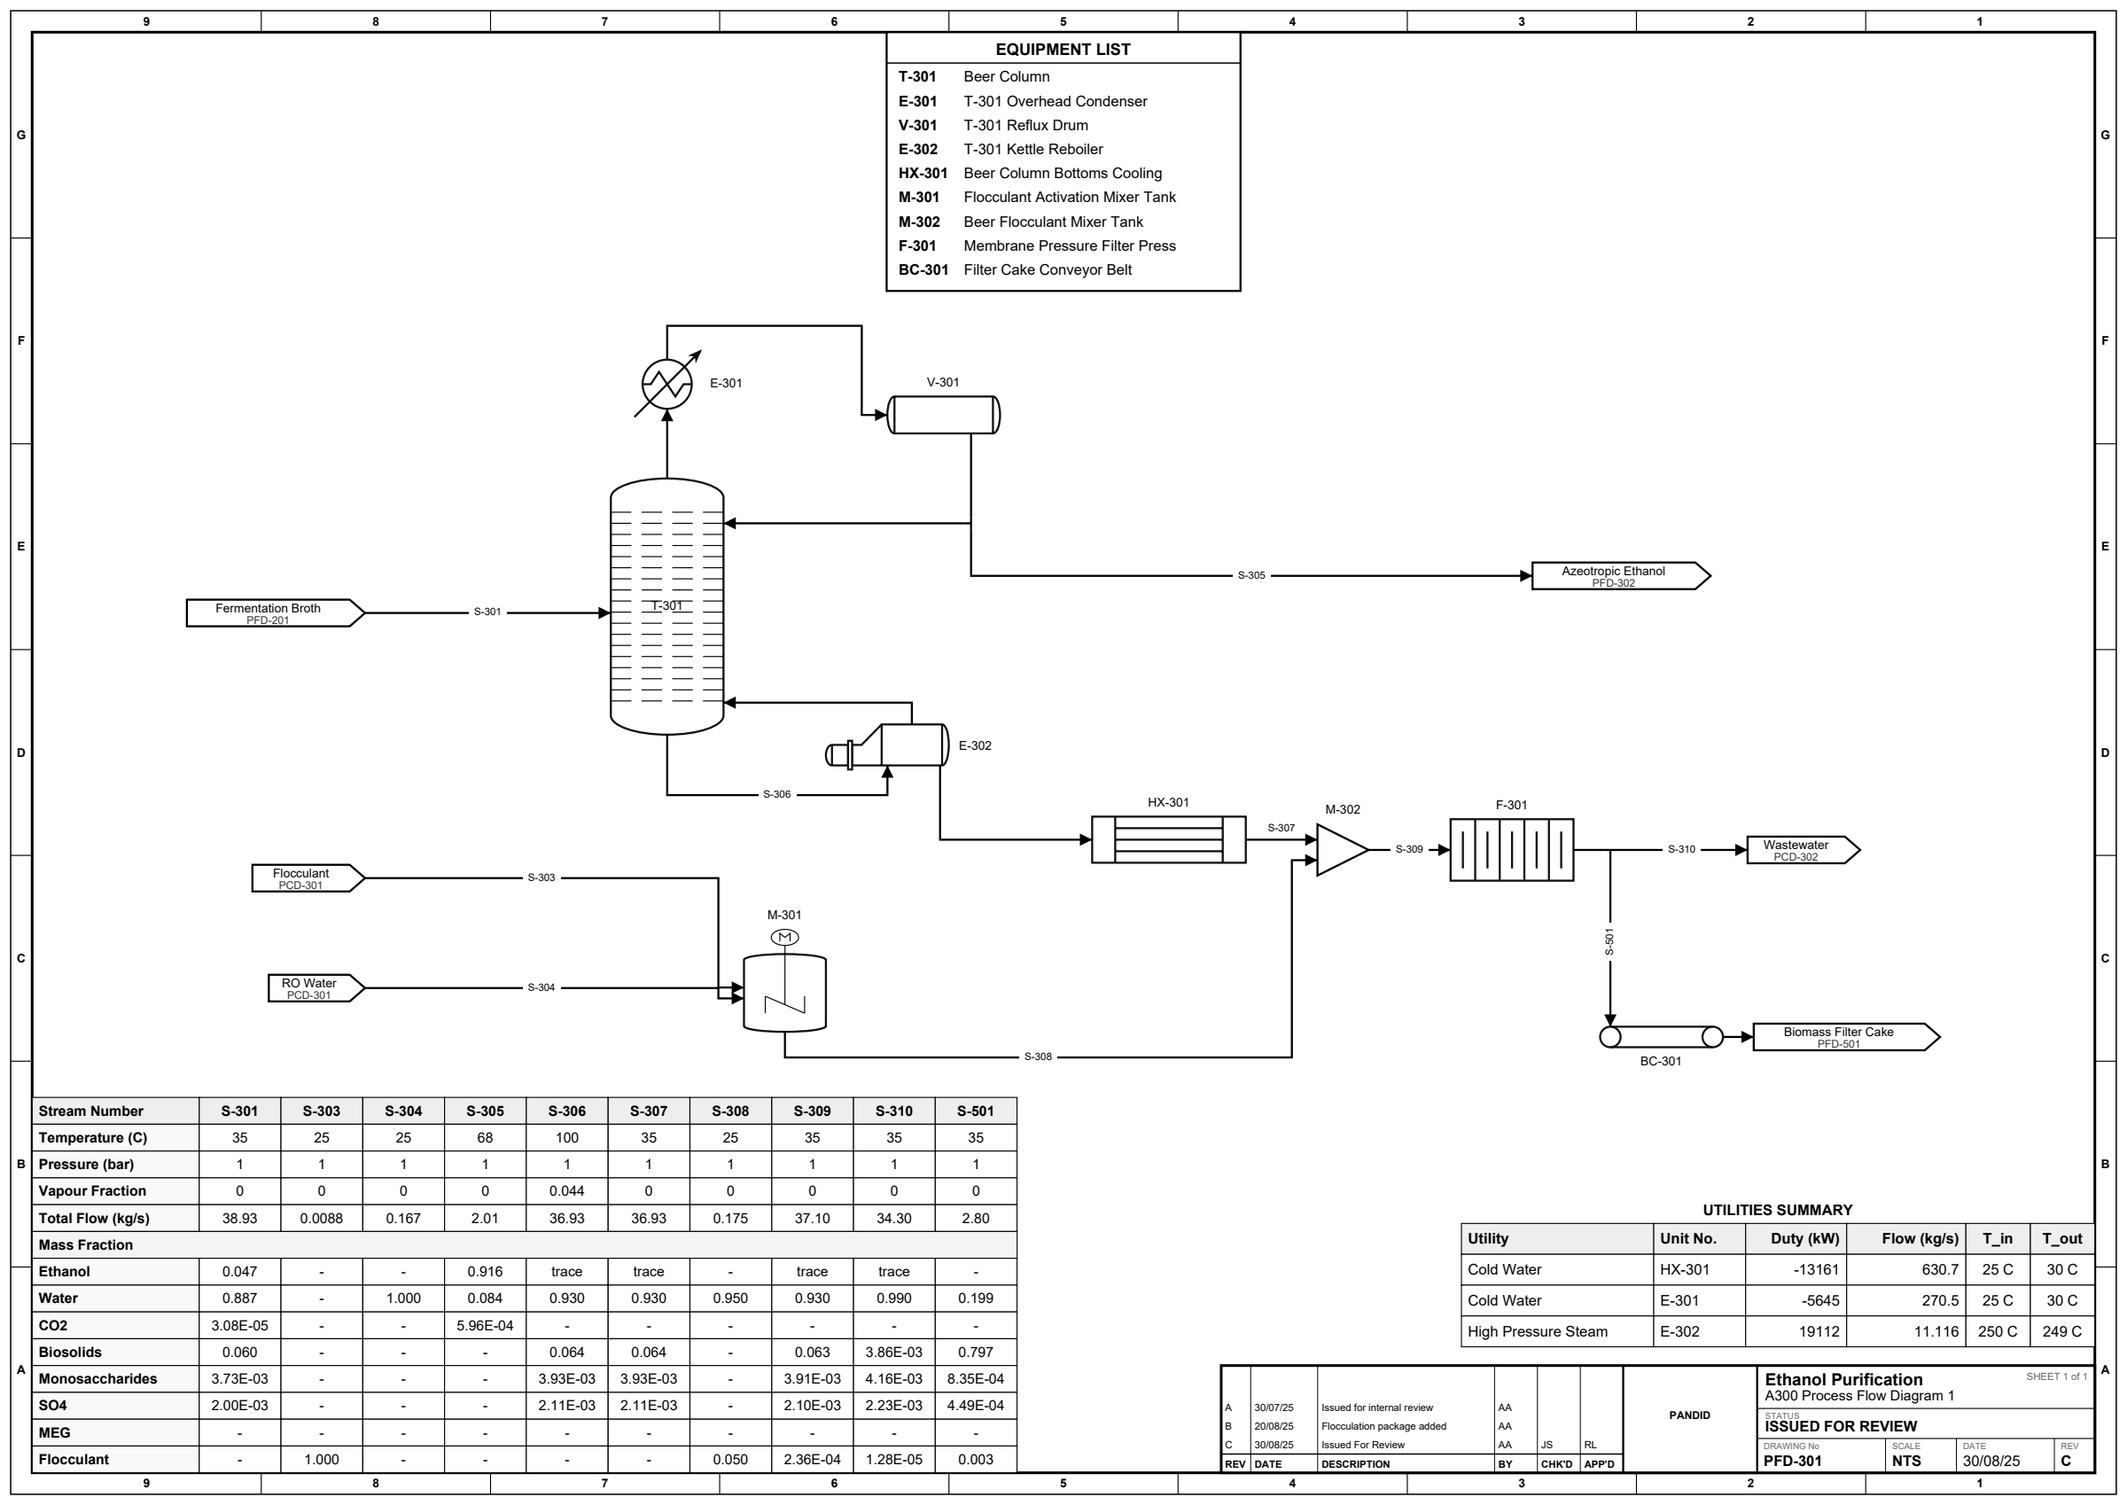
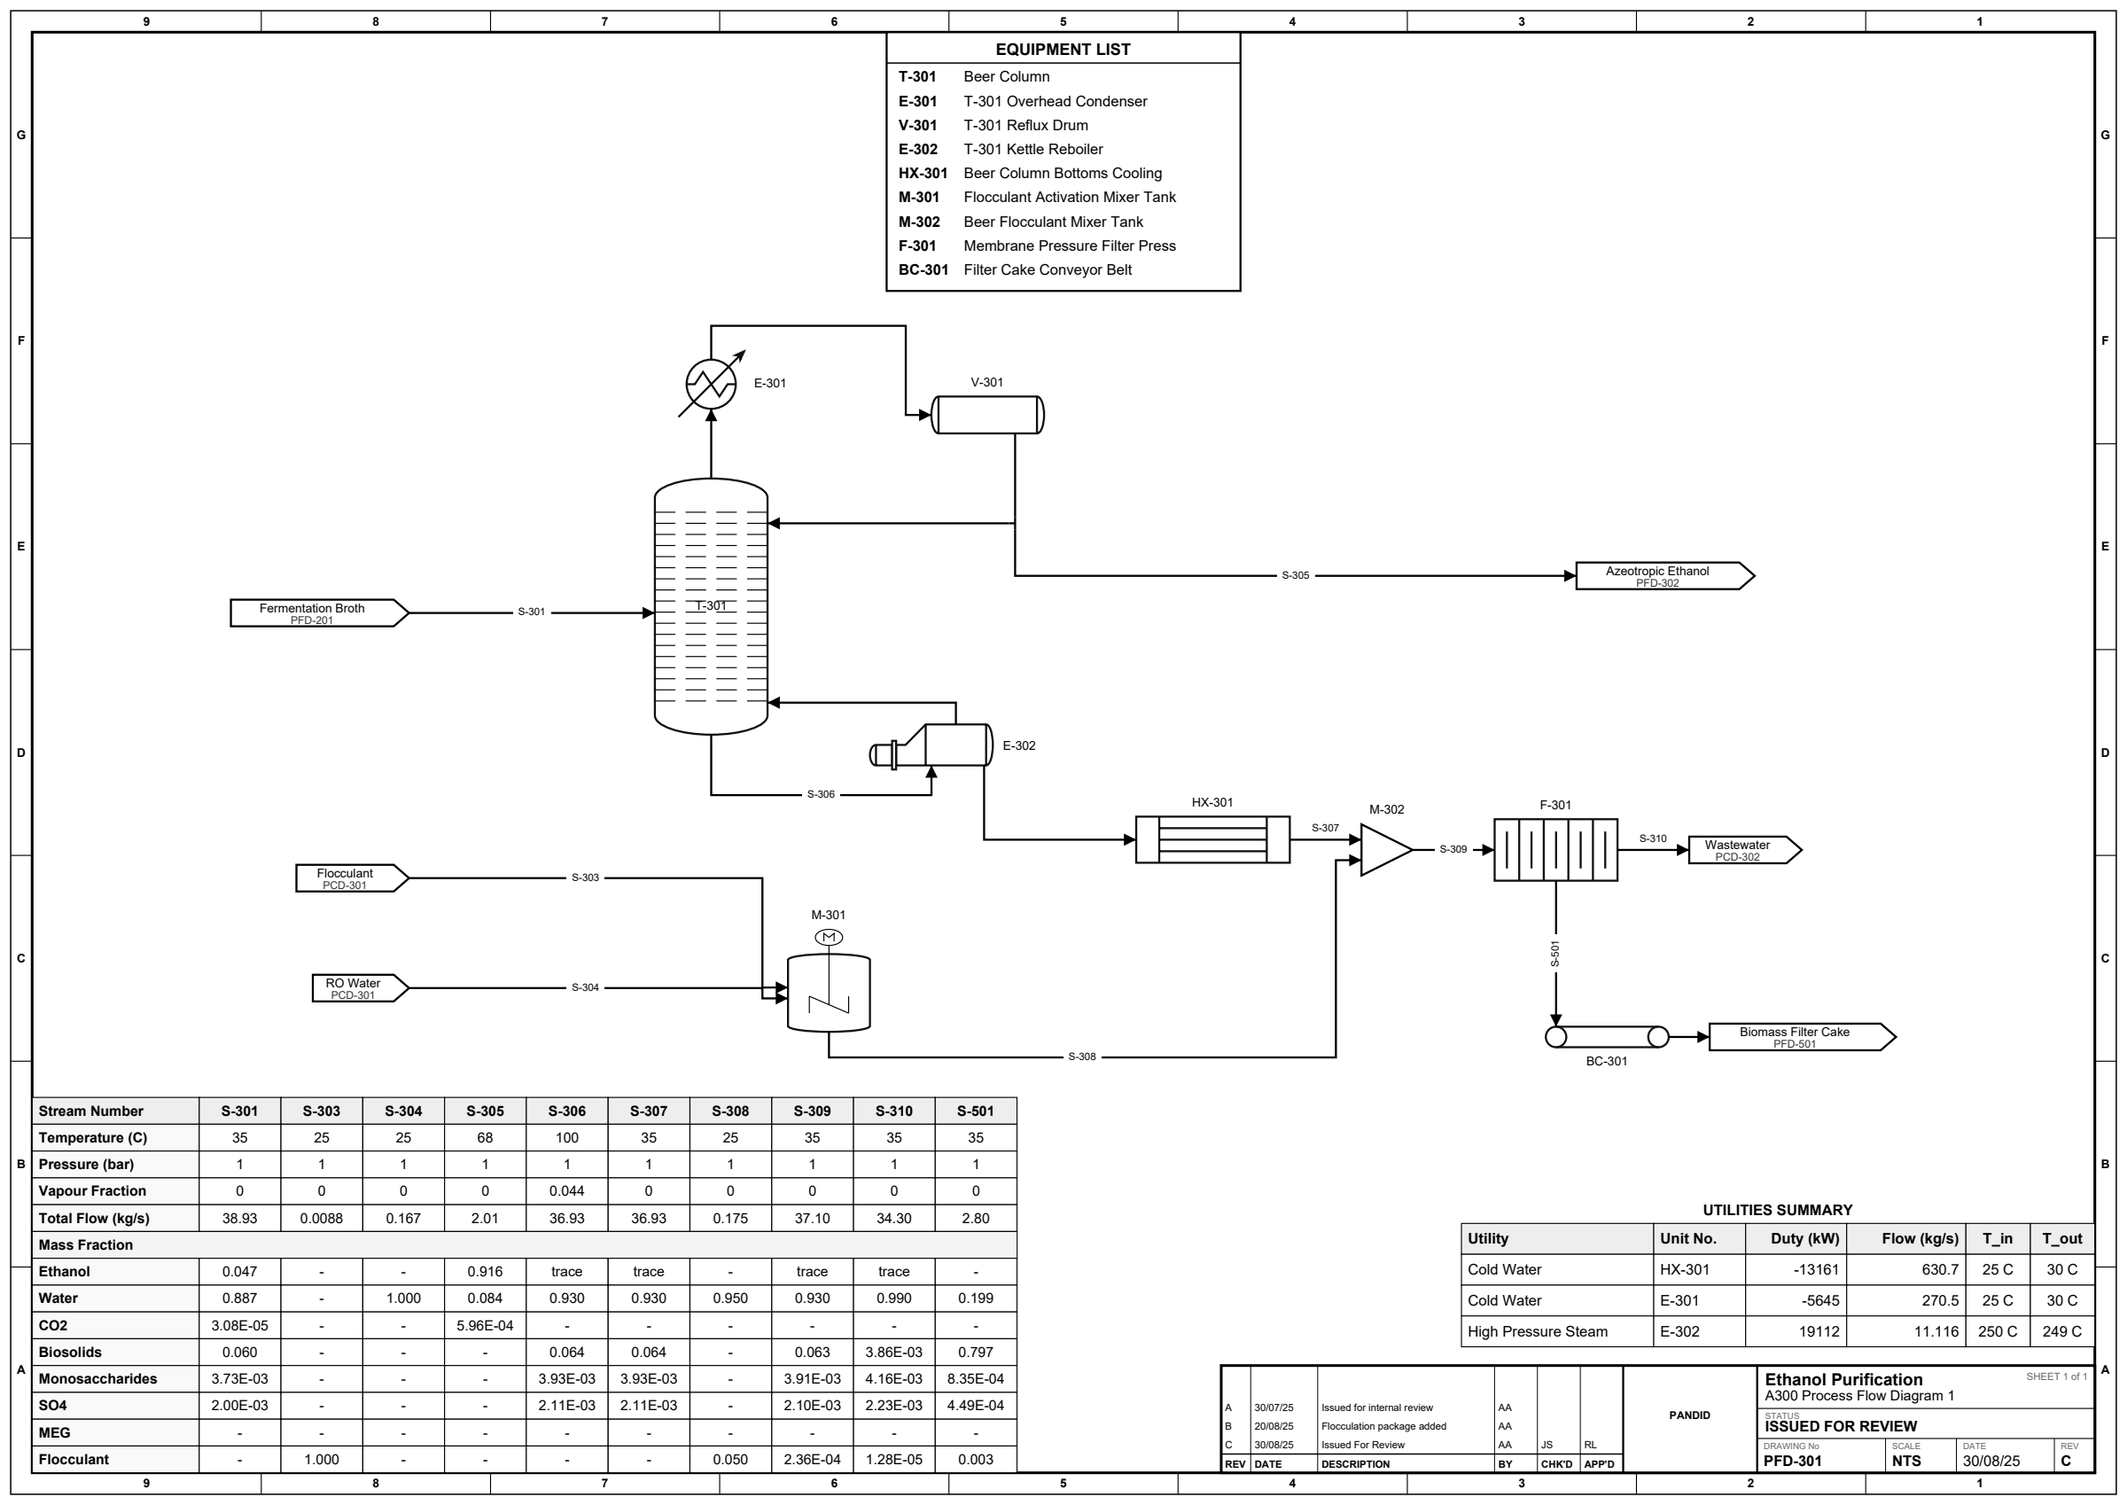
fix(examples): take the cake off the filter rather than off the filtrate
`10_ethanol_pfd` and `13_mineral_dewatering` both hung a `Tee` on the
filter's `outlet` and split cake from filtrate downstream of it. That was a
workaround for a nozzle that did not exist, and what it drew was the sheet
saying the solids leave in the liquid line -- the opposite of what a press
and a belt filter do.

take the filtrate off `outlet` on the east wall and the cake off `cake`
through the floor, reached by `port()` because only those four variants
carry them. Each sheet loses a tee, and each filter now stands over the belt
its cake falls onto.

Only the cake and filtrate legs move. In `13` that is `S-410` and `S-411`,
the `Filtrate` flag and `CV-401`; in `10` it is `S-310` and `S-501`, the
`Wastewater` and `Biomass Filter Cake` flags and `BC-301`. No other
equipment tag or stream label changes in either golden.

`wash_in` is offered on both machines and neither sheet uses it, which is
two fewer open nozzles than before and is re-measured in the corpus prose.

diff --git a/tests/test_golden.py b/tests/test_golden.py
@@ -745,10 +745,6 @@ def _ethanol_pfd() -> Flowsheet:
             description="Membrane Pressure Filter Press",
         )
     )
-    # The press's discharge parts the same way, but the size and the service
-    # both change across it, so this one breaks the run's line number.
-    disch = fs.add(units.Tee())
-    disch.new_line_number = True
     belt = fs.add(units.Conveyor("BC-301", length=120, description="Filter Cake Conveyor Belt"))
     belt.nozzle("feed", "N")  # cake is dropped onto the belt, not piped
 
@@ -790,14 +786,17 @@ def _ethanol_pfd() -> Flowsheet:
     water.pin(x=140, y=mix1_y + 0.573 * mix1_h - 25)
 
     mix2.pin(x=1120, y=hx_axis_y - 15)  # in_1 level with the cooler
-    press_h = 60.0
     press.pin(x=1250, y=hx_axis_y - 20)
-    press_out_y = hx_axis_y - 20 + press_h / 2  # discharge, mid-shell
-    disch.pin(x=1400, y=press_out_y - tee_w / 2)
-    effluent.pin(x=1540, y=press_out_y - 25)  # flag tip on the filtrate leg
-    belt_y, belt_tail = 715.0, 10.0  # tail nozzle, in from the end
-    belt.pin(x=disch.pin_.x + tee_w / 2 - belt_tail, y=belt_y)
-    cake.pin(x=1546, y=belt_y + belt_tail - 25)
+    filtrate_y = press.pin_.y + port_offset(press, "outlet")[1]
+    cake_x = press.pin_.x + port_offset(press, "cake")[0]
+    effluent.pin(port="inlet", x=1440, y=filtrate_y)
+    belt_y = 715.0
+    belt.pin(port="feed", x=cake_x, y=belt_y)
+    cake.pin(
+        port="inlet",
+        x=belt.pin_.x + port_offset(belt, "discharge")[0] + 40,
+        y=belt.pin_.y + port_offset(belt, "discharge")[1],
+    )
 
     # Declared in stream-number order, which is the order the table reads. The
     # overhead and the reboiler circuit are each one service, so every segment
@@ -821,9 +820,9 @@ def _ethanol_pfd() -> Flowsheet:
     fs.connect(mix1.outlet, mix2.in_2, name="S-308")
 
     fs.connect(mix2.outlet, press.inlet, name="S-309")
-    fs.connect(press.outlet, disch.inlet, name="S-309")
-    fs.connect(disch.outlet, effluent.inlet, name="S-310")
-    fs.connect(disch.branch, belt.feed, name="S-501")
+    # Two products out of one machine, on the two nozzles the machine has.
+    fs.connect(press.port("outlet"), effluent.inlet, name="S-310")
+    fs.connect(press.port("cake"), belt.feed, name="S-501")
     fs.connect(belt.discharge, cake.inlet, name="S-501")
 
     for s in fs.streams:
@@ -1509,7 +1508,6 @@ def _mineral_dewatering() -> Flowsheet:
             "FL-401", variant="belt", width=60, height=110, description="Concentrate Belt Filter"
         )
     )
-    cake_tee = fs.add(units.Tee())
     filtrate = fs.add(units.Product("Filtrate", reference="PCD-402"))
     conveyor = fs.add(units.Conveyor("CV-401", length=150, description="Filter Cake Conveyor"))
     conveyor.nozzle("feed", "N")
@@ -1567,12 +1565,12 @@ def _mineral_dewatering() -> Flowsheet:
     suction_red.pin(port="outlet", x=478, y=suction_y)
     disch_red.pin(port="inlet", x=624, y=suction_y)
     belt_filter.pin(port="inlet", x=670, y=suction_y)
+    cake_x = belt_filter.pin_.x + port_offset(belt_filter, "cake")[0]
 
-    cake_tee.pin(port="inlet", x=740, y=suction_y)
-    filtrate.pin(port="inlet", x=770, y=560)
+    filtrate.pin(port="inlet", x=800, y=suction_y)
 
     belt_y, dryer_y = 480.0, 490.0
-    conveyor.pin(port="feed", x=cake_tee.pin_.x + tee_w + 38, y=belt_y)
+    conveyor.pin(port="feed", x=cake_x, y=belt_y)
     breeching.pin(port="inlet", x=950, y=dryer_y)
     dryer.pin(port="feed", x=1000, y=dryer_y)
 
@@ -1610,11 +1608,11 @@ def _mineral_dewatering() -> Flowsheet:
 
     fs.connect(underflow_pump.discharge, disch_red.inlet, name="S-409")
     fs.connect(disch_red.outlet, belt_filter.inlet, name="S-409")
-    fs.connect(belt_filter.outlet, cake_tee.inlet, name="S-409")
 
-    fs.connect(cake_tee.branch, filtrate.inlet, name="S-410")
+    # Two products out of one machine, on the two nozzles the machine has.
+    fs.connect(belt_filter.port("outlet"), filtrate.inlet, name="S-410")
 
-    fs.connect(cake_tee.outlet, conveyor.feed, name="S-411")
+    fs.connect(belt_filter.port("cake"), conveyor.feed, name="S-411")
     fs.connect(conveyor.discharge, breeching.inlet, name="S-411")
 
     fs.connect(air.outlet, heater.inlet, name="S-412")

diff --git a/examples/13_mineral_dewatering.py b/examples/13_mineral_dewatering.py
@@ -141,13 +141,16 @@ def main():
     # Left as a variant: no class in ``pandid.devices`` covers the
     # liquid belt filter, and ``DustCollector``'s ``belt`` aliases to
     # ``gas_belt``, a different symbol on a gas casing.
+    # A belt filter makes **two products** and has a nozzle for each: the
+    # filtrate leaves ``outlet`` on the east wall and the cake leaves
+    # ``cake`` through the floor. Both are reached by ``port()`` rather
+    # than as attributes, because only the four cake-forming variants
+    # carry them -- ``f.cake`` type-checking clean on a bag filter would
+    # be a nozzle the machine does not have. ``wash_in`` is offered too
+    # and this sheet does not use it.
     belt_filter = fs.add(Filter("FL-401", variant="belt", width=60,
                                 height=110,
                                 description="Concentrate Belt Filter"))
-    # This tee splits; the four ``branch="inlet"`` tees elsewhere
-    # combine, and are drawn identically, since a tee does not know
-    # which way its branch runs.
-    cake_tee = fs.add(Tee())
     filtrate = fs.add(Product("Filtrate", reference="PCD-402"))
     # Cake is dropped onto a belt, not piped into it, so the tail nozzle
     # comes off the top face rather than off the end.
@@ -243,17 +246,17 @@ def main():
     suction_red.pin(port="outlet", x=478, y=suction_y)
     disch_red.pin(port="inlet", x=624, y=suction_y)
     belt_filter.pin(port="inlet", x=670, y=suction_y)
+    cake_x = belt_filter.pin_.x + port_offset(belt_filter, "cake")[0]
 
-    cake_tee.pin(port="inlet", x=740, y=suction_y)
-    # Set west of FH-401's tag rather than under the dryer: the burner's
-    # plate is wider than its box, so a flag further east has that plate
-    # through its own outline.
-    filtrate.pin(port="inlet", x=770, y=560)
+    # Straight out of the east wall on the filter's own elevation, which
+    # is what the filtrate leg is: nothing is drawn between the machine
+    # and the boundary.
+    filtrate.pin(port="inlet", x=800, y=suction_y)
 
-    # The belt runs under the cake leg, so the cake drops onto its tail
-    # and throws off into the breeching.
+    # The belt runs under the filter, so the cake drops out of the floor
+    # onto its tail and throws off into the breeching.
     belt_y, dryer_y = 480.0, 490.0
-    conveyor.pin(port="feed", x=cake_tee.pin_.x + tee_w + 38, y=belt_y)
+    conveyor.pin(port="feed", x=cake_x, y=belt_y)
     breeching.pin(port="inlet", x=950, y=dryer_y)
     dryer.pin(port="feed", x=1000, y=dryer_y)
 
@@ -305,11 +308,14 @@ def main():
 
     fs.connect(underflow_pump.discharge, disch_red.inlet, name="S-409")
     fs.connect(disch_red.outlet, belt_filter.inlet, name="S-409")
-    fs.connect(belt_filter.outlet, cake_tee.inlet, name="S-409")
 
-    fs.connect(cake_tee.branch, filtrate.inlet, name="S-410")
+    # Two products out of one machine, on the two nozzles the machine
+    # has. Teeing off the discharge and calling one leg the cake said
+    # the solids leave in the liquid line, which is the opposite of what
+    # a belt filter does.
+    fs.connect(belt_filter.port("outlet"), filtrate.inlet, name="S-410")
 
-    fs.connect(cake_tee.outlet, conveyor.feed, name="S-411")
+    fs.connect(belt_filter.port("cake"), conveyor.feed, name="S-411")
     fs.connect(conveyor.discharge, breeching.inlet, name="S-411")
 
     fs.connect(air.outlet, heater.inlet, name="S-412")
@@ -360,9 +366,9 @@ def main():
     )
 
     # --- Sheet furniture ----------------------------------------------
-    # include= is named row by row in process order. The five tees, the
+    # include= is named row by row in process order. The four tees, the
     # funnel, the two reducers and the exhaust head are left out: all
-    # nine are bulk items bought by the line.
+    # eight are bulk items bought by the line.
     fs.add_annotation(equipment_list(fs, align="top", include=[
         "TK-401", "P-402", "TH-401", "P-401", "FL-401", "CV-401", "FH-401",
         "DR-401", "CY-401", "MS-401", "SC-401", "BL-401",

diff --git a/examples/10_ethanol_pfd.py b/examples/10_ethanol_pfd.py
@@ -96,11 +96,15 @@ def main():
                           description="Flocculant Activation Mixer Tank"))
     mix2 = fs.add(Mixer("M-302", n_inlets=2,
                         description="Beer Flocculant Mixer Tank"))
+    # A press makes **two products** and has a nozzle for each: the
+    # filtrate leaves ``outlet`` on the east wall and the cake leaves
+    # ``cake`` through the floor. Reached by ``port()`` rather than as an
+    # attribute, because only the cake-forming variants have them --
+    # ``press.cake`` type-checking clean on a bag filter would be a
+    # nozzle the machine does not have. ``wash_in`` is offered too and
+    # this sheet does not use it.
     press = fs.add(Filter("F-301", variant="press", width=120, height=60,
                           description="Membrane Pressure Filter Press"))
-    # Size and service both change here, so the number breaks.
-    disch = fs.add(Tee())
-    disch.new_line_number = True
     belt = fs.add(Conveyor("BC-301", length=120,
                            description="Filter Cake Conveyor Belt"))
     belt.nozzle("feed", "N")            # cake is dropped onto the belt, not piped
@@ -152,14 +156,17 @@ def main():
     water.pin(x=140, y=mix1_y + 0.573 * mix1_h - 25)
 
     mix2.pin(x=1120, y=hx_axis_y - 15)              # in_1 level with the cooler
-    press_h = 60.0
     press.pin(x=1250, y=hx_axis_y - 20)
-    press_out_y = hx_axis_y - 20 + press_h / 2      # discharge, mid-shell
-    disch.pin(x=1400, y=press_out_y - tee_w / 2)
-    effluent.pin(x=1540, y=press_out_y - 25)        # flag tip on the filtrate leg
-    belt_y, belt_tail = 715.0, 10.0                 # tail nozzle, in from the end
-    belt.pin(x=disch.pin_.x + tee_w / 2 - belt_tail, y=belt_y)
-    cake.pin(x=1546, y=belt_y + belt_tail - 25)
+    filtrate_y = press.pin_.y + port_offset(press, "outlet")[1]
+    cake_x = press.pin_.x + port_offset(press, "cake")[0]
+    effluent.pin(port="inlet", x=1440, y=filtrate_y)
+    # The belt runs under the press, so the cake drops out of the floor
+    # onto its tail and is thrown off the far end.
+    belt_y = 715.0
+    belt.pin(port="feed", x=cake_x, y=belt_y)
+    cake.pin(port="inlet",
+             x=belt.pin_.x + port_offset(belt, "discharge")[0] + 40,
+             y=belt.pin_.y + port_offset(belt, "discharge")[1])
 
     # --- Connections --------------------------------------------------
     # Declared in stream-number order, which is the order the table
@@ -183,9 +190,12 @@ def main():
     fs.connect(mix1.outlet, mix2.in_2, name="S-308")
 
     fs.connect(mix2.outlet, press.inlet, name="S-309")
-    fs.connect(press.outlet, disch.inlet, name="S-309")
-    fs.connect(disch.outlet, effluent.inlet, name="S-310")
-    fs.connect(disch.branch, belt.feed, name="S-501")
+    # Two products out of one machine, on the two nozzles the machine
+    # has. Teeing off the filtrate and calling one leg the cake said the
+    # solids leave in the liquid line, which is the opposite of what a
+    # press does.
+    fs.connect(press.port("outlet"), effluent.inlet, name="S-310")
+    fs.connect(press.port("cake"), belt.feed, name="S-501")
     fs.connect(belt.discharge, cake.inlet, name="S-501")
 
     for s in fs.streams:

diff --git a/pandid/validate.py b/pandid/validate.py
@@ -406,10 +406,10 @@ def model_issues(fs: "Flowsheet") -> list["Issue"]:
     # ``in_4``.
     #
     # **The narrowness is the measurement.** Across the twenty shipped
-    # examples 433 ports carry no stream and every one is legitimate --
+    # examples 431 ports carry no stream and every one is legitimate --
     # 302 signal connections, 31 dry exchanger sides, 24 duties, 18
     # reliefs, 18 drains, 14 vents, 8 station drain legs that end off the
-    # sheet, and 18 more single nozzles a class offers and a service did
+    # sheet, and 16 more single nozzles a class offers and a service did
     # not need. A nozzle a class *declares* is
     # offered whether the sheet uses it or not, and leaving one open is a
     # drawing decision. A **numbered** nozzle is not offered, it is asked

diff --git a/docs/api.md b/docs/api.md
@@ -2978,12 +2978,12 @@ sheet uses it or not, and leaving one open is a drawing decision. Declaring one
 per variant rather than per class changes nothing here: a press run without a
 displacement wash is a real machine, and a sheet that lets the cake fall to a
 bin off the drawing is a real sheet. Across the twenty examples in
-`examples/` 433 ports carry no stream and every one of them is one of those:
+`examples/` 431 ports carry no stream and every one of them is one of those:
 302 signal connections, 31 exchanger utility sides, 24 duties, 18 reliefs,
-18 drains, 14 vents, 8 station drain outlets, and 18 further nozzles a class
+18 drains, 14 vents, 8 station drain outlets, and 16 further nozzles a class
 offers and a service did not need -- four agitator drives, an ion exchanger's
-regenerant pair, a filter press's wash and cake, and a handful of spare
-vessel and column nozzles. None is reported.
+regenerant pair, two filter presses' displacement wash, and a handful of
+spare vessel and column nozzles. None is reported.
 What is reported is a *count that went unmet*, which is why the singular
 spelling is silent too — a one-feed column's nozzle is called `feed`, not
 `feed_1`, and no number was ever written down for it.

diff --git a/CHANGELOG.md b/CHANGELOG.md
@@ -546,6 +546,10 @@ reader would otherwise take them for working code.
 
 ### Fixed
 
+- `examples/10_ethanol_pfd.py` and `examples/13_mineral_dewatering.py` now take
+  the cake off the filter's own `cake` nozzle instead of teeing it off the
+  filtrate downstream. Both sheets lose a tee.
+
 - **Six things the render dropped without saying so.** A draw.io stand-in that
   does not draw all of a symbol now reports what it lost
   (`drawio-approximated`); a title-block cell the `.drawio` export had to
